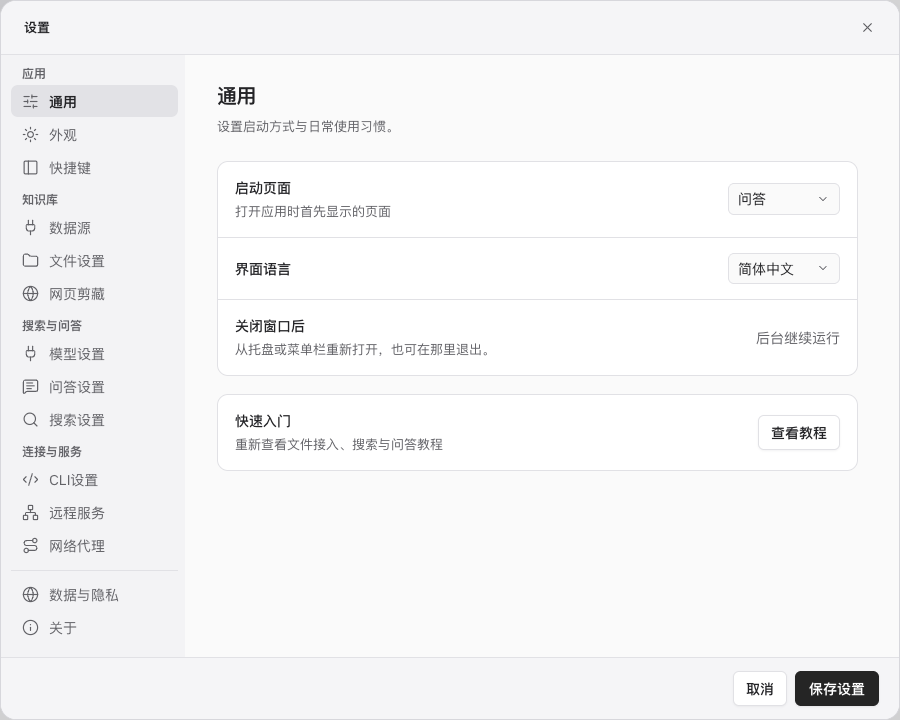
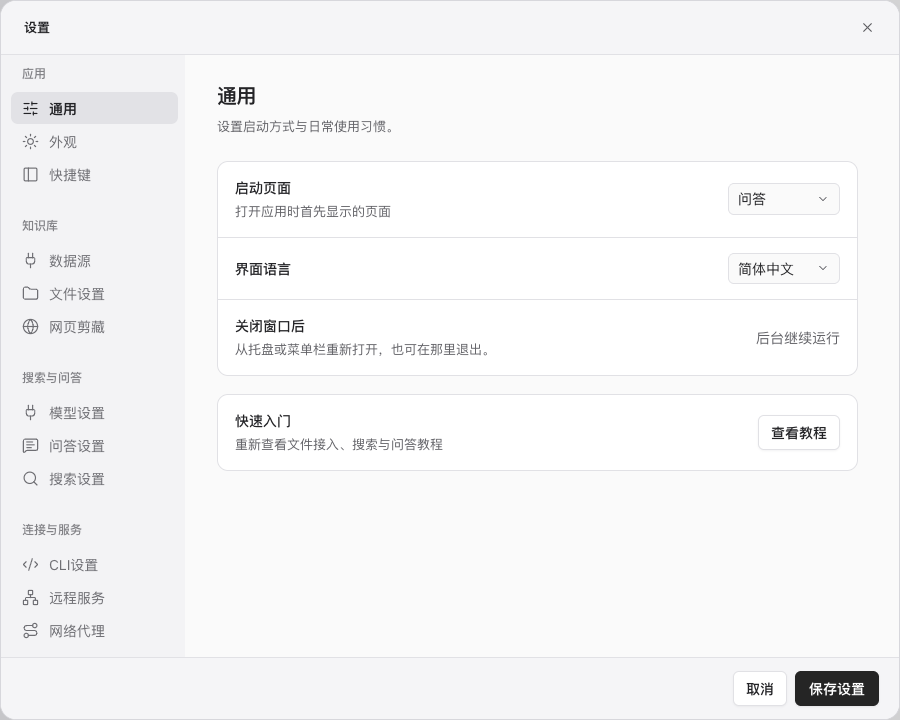
fix(settings): include the updated settings layout
The 0.4.3 release was built from the integration snapshot before the settings sidebar and reindex layout edits. Apply those changes with their bilingual documentation, screenshots and coverage.

Changed region(s): [[0.0, 0.3972, 0.1244, 0.6722], [0.0311, 0.7028, 0.1244, 0.8861], [0.0311, 0.0917, 0.1244, 0.3667]]

diff --git a/src/components/settings.css b/src/components/settings.css
@@ -5,13 +5,12 @@
 .settings-window>.dialog-head .icon-button{width:28px;height:28px;border-radius:50%;color:var(--color-secondary)}
 .settings-window>.dialog-head .icon{width:15px;height:15px}
 .settings-window .settings-form{grid-template-columns:184px minmax(0,1fr);grid-template-rows:minmax(0,1fr) auto}
-.settings-window .settings-nav{padding:11px 10px;gap:9px;background:var(--color-sidebar);overflow:auto}
+.settings-window .settings-nav{padding:11px 10px;gap:28px;background:var(--color-sidebar);overflow:auto}
 .settings-window .settings-nav-group{display:flex;flex:none;flex-direction:column;gap:1px;padding:0}
-.settings-window .settings-nav-group:last-child{padding-top:7px;border-top:1px solid var(--color-rule)}
-.settings-window .settings-nav-heading{margin:0 0 2px;padding-inline:11px 6px;color:var(--color-secondary);font:550 var(--text-small)/16px var(--font-body);overflow-wrap:anywhere}
-.settings-window .settings-nav button{min-height:32px;height:auto;flex-shrink:0;margin:0;padding:5px 11px;gap:10px;border-radius:7px;font-size:var(--text-ui);font-weight:400;color:var(--color-secondary)}
+.settings-window .settings-nav-heading{margin:0 0 9px;padding-inline:11px 6px;color:color-mix(in srgb,var(--color-muted) 85%,var(--color-sidebar));font:500 var(--text-small)/16px var(--font-body);overflow-wrap:anywhere}
+.settings-window .settings-nav button{min-height:32px;height:auto;flex-shrink:0;margin:0;padding:5px 11px;gap:10px;border-radius:7px;font-size:var(--text-ui);font-weight:400;color:var(--color-muted)}
 .settings-window .settings-nav button span{min-width:0;white-space:normal;overflow-wrap:anywhere}
-.settings-window .settings-nav button .icon{width:17px;height:17px;flex-shrink:0}
+.settings-window .settings-nav button .icon{width:17px;height:17px;flex-shrink:0;color:inherit}
 .settings-window .settings-nav button.active{background:var(--color-selected);color:var(--color-ink);font-weight:550}
 .settings-window .settings-content{padding:28px 32px 32px;scrollbar-gutter:stable;overscroll-behavior:contain;background:var(--color-panel)}
 .settings-window .settings-page-heading{margin-bottom:24px}
@@ -136,6 +135,7 @@
 @media(max-width:540px){.settings-window .parser-setting{flex-wrap:wrap}.settings-window .parser-actions{flex:1;justify-content:flex-end}}
 .settings-window .reindex-settings .outline{flex-shrink:0}
 .settings-window .reindex-settings{border-bottom:1px solid var(--color-rule)}
+.settings-window .reindex-actions{border-bottom:0}
 .settings-window .reindex-status{padding:0 17px 15px;font-size:var(--text-caption);line-height:1.6}
 .settings-window .reindex-status p{margin:0 0 6px}
 .settings-window .reindex-status p:last-child{margin-bottom:0}

diff --git a/src/components/IndexSettings.svelte b/src/components/IndexSettings.svelte
@@ -38,11 +38,17 @@
 </script>
 
 <div class="reindex-settings">
- <div class="setting-row reindex-actions"><div><strong>{$t('重新索引')}</strong><p>{$t('按已保存的文件类型和排除目录检查全部文件，只更新变化的索引。')}</p></div><Button.Root type="button" class="outline" disabled={loading||submitting||indexing||status.paused||!roots.length||settingsChanged} onclick={reindex}>{$t(finishing?'正在暂停…':status.paused?'索引已暂停':submitting||indexing?"正在索引…":"重新索引")}</Button.Root></div>
- {#if settingsChanged||submitting||indexing||status.paused||started||failures.length||error||!loading&&!roots.length}
+ <div class="setting-row reindex-actions">
+  <div>
+   <strong>{$t('重新索引')}</strong>
+   <p>{$t('按已保存的文件类型和排除目录检查全部文件，只更新变化的索引。')}</p>
+   {#if settingsChanged}<p>{$t("请先保存文件类型或排除目录的修改，再重新索引。")}</p>{/if}
+   {#if !loading&&!roots.length}<p>{$t("添加文件夹后可重新索引。")}</p>{/if}
+  </div>
+  <Button.Root type="button" class="outline" disabled={loading||submitting||indexing||status.paused||!roots.length||settingsChanged} onclick={reindex}>{$t(finishing?'正在暂停…':status.paused?'索引已暂停':submitting||indexing?"正在索引…":"重新索引")}</Button.Root>
+ </div>
+ {#if submitting||indexing||status.paused||started||failures.length||error}
  <div class="reindex-status" aria-live="polite">
-  {#if settingsChanged}<p class="settings-help">{$t("请先保存文件类型或排除目录的修改，再重新索引。")}</p>{/if}
-  {#if !loading&&!roots.length}<p class="settings-help">{$t("添加文件夹后可重新索引。")}</p>{/if}
   {#if status.paused}<p>{$t(finishing?'正在暂停…':'索引已暂停')}</p>{/if}
   {#if current&&progress}<p>{$t("{value0}：已处理 {value1} / {value2} 个文件",{value0:current.name,value1:progress.count,value2:progress.total})}</p><progress aria-label={$t("索引进度")} value={progress.count} max={Math.max(1,progress.total)}></progress>
   {:else if !status.paused&&(submitting||indexing)}<p class="reindex-running"><span aria-hidden="true">{@html icon('refresh')}</span>{$t("正在检查文件…")}</p>

diff --git a/tests/reindex-settings.test.ts b/tests/reindex-settings.test.ts
@@ -62,13 +62,13 @@ it('未保存索引设置或未添加目录时禁用按钮，启动错误可见'
   if(command==='reindex_all')throw new Error('索引启动失败');
  });
  app=mount(IndexSettings,{target:document.body});
- await vi.waitFor(()=>expect(document.body.textContent).toContain('添加文件夹后可重新索引。'));
+ await vi.waitFor(()=>expect(document.querySelector('.reindex-actions')?.textContent).toContain('添加文件夹后可重新索引。'));
  expect(button().disabled).toBe(true);
  await unmount(app);document.body.innerHTML='';
  roots=[{path:'/a',name:'A',status:'ready',count:1,error:null}];
  app=mount(IndexSettings,{target:document.body,props:{settingsChanged:true}});
  await tick();expect(button().disabled).toBe(true);
- expect(document.body.textContent).toContain('请先保存文件类型或排除目录的修改，再重新索引。');
+ expect(document.querySelector('.reindex-actions')?.textContent).toContain('请先保存文件类型或排除目录的修改，再重新索引。');
  await unmount(app);document.body.innerHTML='';
  app=mount(IndexSettings,{target:document.body});
  await vi.waitFor(()=>expect(button().disabled).toBe(false));button().click();

diff --git a/src/components/Settings.svelte b/src/components/Settings.svelte
@@ -155,7 +155,7 @@
    ['api',$t('远程服务'),'network'],
    ['network',$t('网络代理'),'route'],
   ]},
-  {label:'',pages:[
+  {label:$t('其他'),pages:[
    ['privacy',$t('数据与隐私'),'globe'],
    ['about',$t('关于'),'info'],
   ]},
@@ -219,8 +219,8 @@
   <form on:submit|preventDefault={()=>{if(page!=='api'&&!dataDirectoryBusy)void save();}} class="settings-form">
    <nav class="settings-nav" aria-label={$t("设置分类")}>
     {#each pageGroups as group}
-     <div class="settings-nav-group" role={group.label?'group':undefined} aria-label={group.label||undefined}>
-      {#if group.label}<p class="settings-nav-heading" aria-hidden="true">{group.label}</p>{/if}
+     <div class="settings-nav-group" role="group" aria-label={group.label}>
+      <p class="settings-nav-heading" aria-hidden="true">{group.label}</p>
       {#each group.pages as [id,label,glyph] (id)}
        <Button.Root type="button" disabled={cliBusy||apiBusy||dataDirectoryBusy} aria-current={page===id?'page':undefined} class={page===id?'active':''} onclick={()=>{page=id;status='';error=''}}>{@html icon(glyph)}<span>{label}</span></Button.Root>
       {/each}

diff --git a/tests/language-settings.test.ts b/tests/language-settings.test.ts
@@ -85,7 +85,7 @@ it('restores saved English across all settings pages and preserves original file
   ['Knowledge base',['Data sources','File settings','Web Clipper']],
   ['Search & Q&A',['Model settings','Chat settings','Search settings']],
   ['Connections & services',['CLI settings','Remote services','Network proxy']],
-  [null,['Data and privacy','About']],
+  ['Other',['Data and privacy','About']],
  ]);
  for(const page of ['General','Appearance','Data sources','File settings','Shortcuts','Model settings','Chat settings','Search settings','Data and privacy','About']){
   click(page,document.querySelector('.settings-nav')!);await tick();
